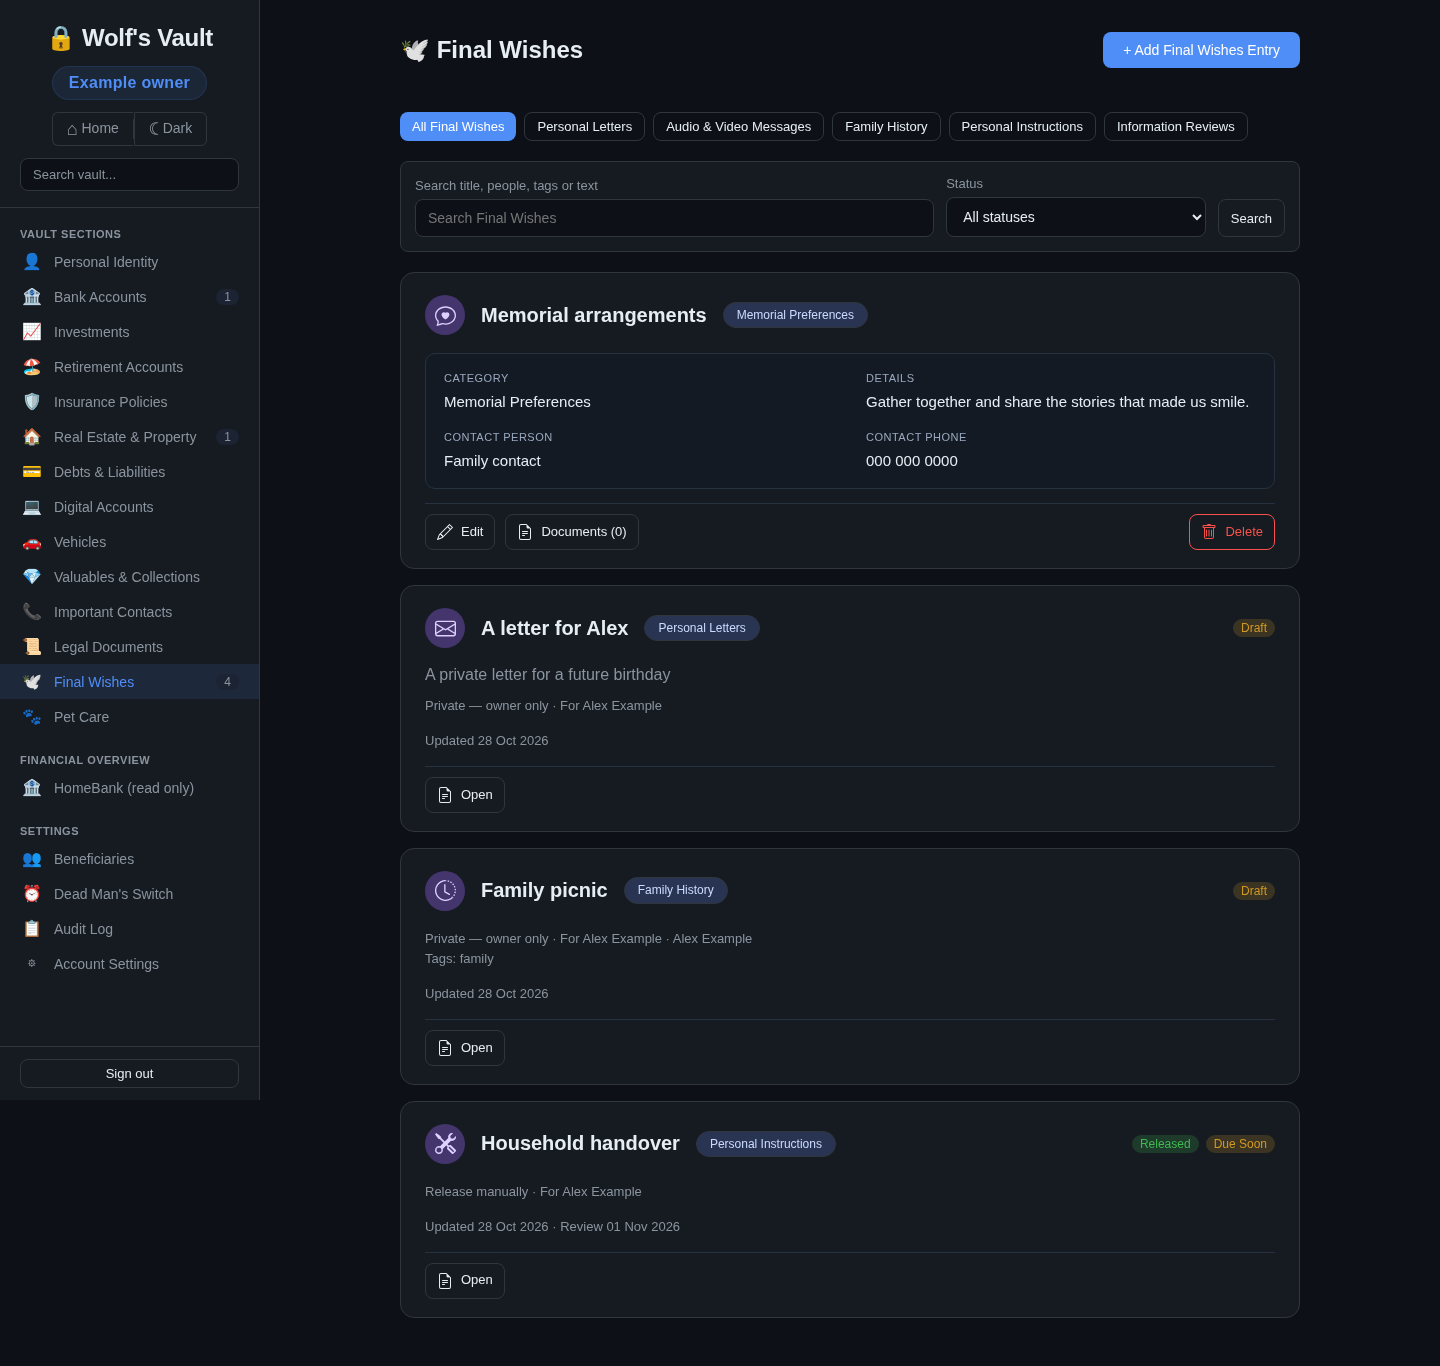
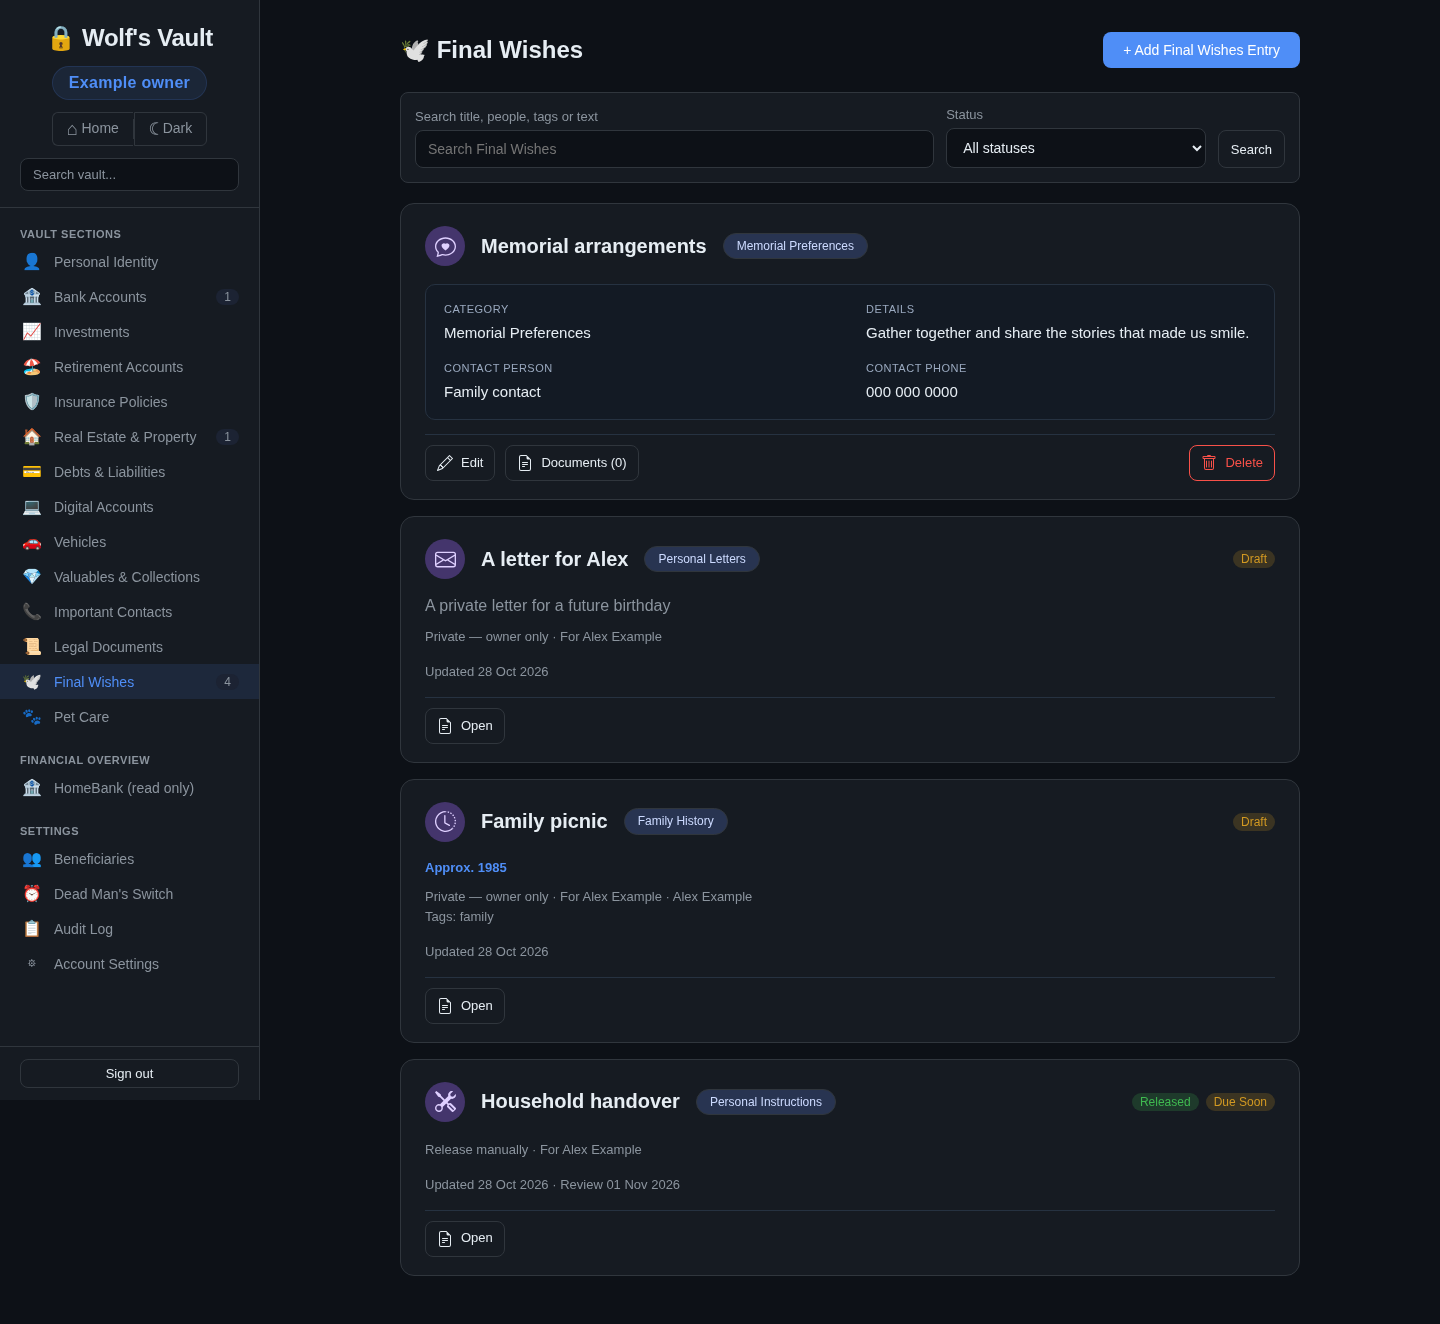
Remove category buttons from the Final Wishes list

diff --git a/public/js/legacy.js b/public/js/legacy.js
@@ -113,7 +113,7 @@ const Legacy = (() => {
 
   async function mountOwner(root,finalEntries=[],options={}) {
     if(!root)return;
-    let items=[],beneficiaries=[],vaultEntries=[],group='all',filter={q:'',status:'',from:'',to:''},detail=null,widget=null,sequence=0;
+    let items=[],beneficiaries=[],vaultEntries=[],filter={q:'',status:''},detail=null,widget=null,sequence=0;
     let uploadConfig={max_file_bytes:25*1024*1024,accepted:mediaAccept};
     const alive=()=>root.isConnected;
     const message=(text,error=false)=>{if(!alive())return;const target=root.querySelector('[data-legacy-feedback]');if(target){target.textContent=text;target.hidden=false;target.className='alert alert-'+(error?'error':'success');}else (error?showError:showSuccess)(text);};
@@ -129,14 +129,14 @@ const Legacy = (() => {
       for(let page=2;page<=Number(first.pages || 1);page++)entries.push(...arrayResult(await API.request('GET','/vault/entries?limit=100&page='+page)));
       return entries;
     }
-    function card(item,timeline=false) {
+    function card(item,timeline=item.type==='family_history') {
       const metadata=item.metadata || {};
       const recipients=(item.beneficiaries || []).map(recipient=>recipient.name).filter(Boolean);
       const timelineDate=timeline?`<p class="legacy-timeline-date">${escape(metadata.event_date?`${metadata.date_precision==='approximate'?'Approx. ':''}${metadata.event_date}`:'Unknown date')}</p>`:'';
       return RecordCards.render({
         title:item.title,section:'final_wishes',category:types[item.type] || item.type,iconName:recordIcons[item.type] || 'file-earmark-text',
         badges:`<div class="legacy-badges">${badge(item.status)}${item.review_enabled?badge(item.review_state):''}</div>`,
-        className:`legacy-item ${timeline?'legacy-timeline-item':''}`,
+        className:'legacy-item',
         body:`<div class="record-card-body">${timelineDate}${metadata.final_wishes?.category?`<p class="legacy-help">${escape(metadata.final_wishes.category)}</p>`:''}${item.description?`<p class="legacy-description">${escape(item.description)}</p>`:''}<p class="legacy-help">${escape(policies[item.release_policy] || item.release_policy)} · ${recipients.length?`For ${escape(recipients.join(', '))}`:`${(item.beneficiary_ids || item.beneficiaries || []).length} recipient(s)`}${metadata.people?.length?` · ${escape(textList(metadata.people))}`:''}${metadata.tags?.length?`<br>Tags: ${escape(textList(metadata.tags))}`:''}</p><p class="legacy-help">Updated ${escape(date(item.updated_at))}${item.next_review_at?` · Review ${escape(date(item.next_review_at))}`:''}</p></div>`,
         footer:RecordCards.footer({primary:RecordCards.action({label:'Open',iconName:'file-earmark-text',attributes:`data-legacy-action="open" data-item-id="${escape(item.id)}"`})})
       });
@@ -144,11 +144,18 @@ const Legacy = (() => {
     function drawList() {
       if(!alive())return;
       detail=null;
-      const reviews=group==='reviews';
-      const visible=reviews?items.filter(item=>item.review_enabled || item.type==='review'):group==='all'?items:items.filter(item=>item.type===group);
-      const arrangements=group==='all' && !filter.status ? finalEntries.filter(entry=>!filter.q || [entry.title,entry.notes,...Object.values(entry.fields || {})].join(' ').toLowerCase().includes(filter.q.toLowerCase())) : [];
-      root.innerHTML=`${feedback}<div class="legacy-tabs" role="group" aria-label="Final Wishes entry groups">${[['all','All Final Wishes'],...Object.entries(types).filter(([key])=>key!=='review'),['reviews','Information Reviews']].map(([key,label])=>`<button type="button" class="btn btn-${group===key?'primary':'outline'} btn-sm" data-legacy-group="${key}" aria-pressed="${group===key}">${label}</button>`).join('')}</div><form class="legacy-filters" id="legacy-filter-form"><div class="form-group"><label for="legacy-search">Search title, people, tags or text</label><input id="legacy-search" name="q" value="${escape(filter.q)}" type="search" placeholder="Search Final Wishes"></div><div class="form-group"><label for="legacy-filter-status">Status</label><select id="legacy-filter-status" name="status"><option value="">All statuses</option>${selectOptions({draft:'Draft',ready:'Ready',released:'Released',archived:'Archived'},filter.status)}</select></div>${group==='family_history'?`<div class="form-group"><label for="legacy-from">From date</label><input id="legacy-from" name="from" type="date" value="${escape(filter.from)}"></div><div class="form-group"><label for="legacy-to">To date</label><input id="legacy-to" name="to" type="date" value="${escape(filter.to)}"></div>`:''}<button type="submit" class="btn btn-outline btn-sm">Search</button></form>${reviews?'<p class="legacy-help">Reviewing information records its accuracy. Use the Dead Man’s Switch section for your separate check-in.</p>':''}<div class="legacy-list ${group==='family_history'?'legacy-timeline':''}">${arrangements.map(entry=>RecordCards.entry(entry,{section:'final_wishes',documentCount:options.documentCounts?.[entry.id] || 0})).join('')}${visible.length?(group==='family_history'?[...visible].sort((a,b)=>String(a.metadata?.event_date || '9999').localeCompare(String(b.metadata?.event_date || '9999'))):visible).map(item=>card(item,group==='family_history')).join(''):arrangements.length?'':`<div class="empty-state"><h3>No ${escape(group==='all'?'Final Wishes entries':reviews?'scheduled reviews':types[group].toLowerCase())} yet</h3><p>${filter.q || filter.status?'Try changing your search filters.':'Use Add Final Wishes Entry to prepare wishes and content for your recipients.'}</p></div>`}</div>`;
-      root.querySelectorAll('[data-legacy-group]').forEach(control=>control.onclick=()=>{group=control.dataset.legacyGroup;drawList();});
+      const arrangements=!filter.status ? finalEntries.filter(entry=>!filter.q || [entry.title,entry.notes,...Object.values(entry.fields || {})].join(' ').toLowerCase().includes(filter.q.toLowerCase())) : [];
+      root.innerHTML=`${feedback}
+        <form class="legacy-filters" id="legacy-filter-form">
+          <div class="form-group"><label for="legacy-search">Search title, people, tags or text</label><input id="legacy-search" name="q" value="${escape(filter.q)}" type="search" placeholder="Search Final Wishes"></div>
+          <div class="form-group"><label for="legacy-filter-status">Status</label><select id="legacy-filter-status" name="status"><option value="">All statuses</option>${selectOptions({draft:'Draft',ready:'Ready',released:'Released',archived:'Archived'},filter.status)}</select></div>
+          <button type="submit" class="btn btn-outline btn-sm">Search</button>
+        </form>
+        <div class="legacy-list">
+          ${arrangements.map(entry=>RecordCards.entry(entry,{section:'final_wishes',documentCount:options.documentCounts?.[entry.id] || 0})).join('')}
+          ${items.map(item=>card(item)).join('')}
+          ${!items.length && !arrangements.length?`<div class="empty-state"><h3>No Final Wishes entries yet</h3><p>${filter.q || filter.status?'Try changing your search filters.':'Use Add Final Wishes Entry to prepare wishes and content for your recipients.'}</p></div>`:''}
+        </div>`;
       root.querySelector('#legacy-filter-form').onsubmit=async event=>{event.preventDefault();filter=Object.fromEntries(new FormData(event.target));await load();};
       bindActions();
       options.onRender?.();
@@ -295,7 +302,6 @@ const Legacy = (() => {
       root.querySelectorAll('[data-legacy-action]').forEach(control=>control.onclick=async()=>{
         const action=control.dataset.legacyAction;
         try{
-          if(action==='new'){window.location.hash='add/final_wishes?type='+urlId(Object.hasOwn(types,group)?group:'instruction');return;}
           if(action==='back'){if(window.location.hash!=='#section/final_wishes'){window.location.hash='section/final_wishes';return;}return load();}
           if(action==='reload'){if(await load() && options.entryForm)return showEditor(newWish());return;}
           if(action==='open')return showDetail(control.dataset.itemId || detail.id);

diff --git a/tests/legacy-ui.test.js b/tests/legacy-ui.test.js
@@ -21,8 +21,10 @@ const fixtureEntries=[{id:11,title:'Memorial arrangements',section:'final_wishes
 const common={body_markdown:'A personal message',introduction:'',description:'',release_policy:'owner_only',status:'draft',beneficiary_ids:[1],metadata:{},links:[],beneficiaries:[],attachments:[],versions:[],reviews:[],release_events:[],review_enabled:false,revision:1,created_at:'2026-10-20T10:00:00Z',updated_at:'2026-10-28T10:00:00Z'};
 const fixtureItems=[
 {...structuredClone(common),id:'letter-1',title:'A letter for Alex',type:'letter',description:'A private letter for a future birthday'},
+{...structuredClone(common),id:'recording-2',title:'A recorded family story',type:'recording'},
 {...structuredClone(common),id:'memory-1',title:'Family picnic',type:'family_history',metadata:{event_date:'1985',date_precision:'approximate',people:['Alex Example'],tags:['family'],place:'Example park'}},
 {...structuredClone(common),id:'memory-2',title:'An undated photograph',type:'family_history',metadata:{date_precision:'unknown',people:['Jamie Example']}},
+{...structuredClone(common),id:'review-1',title:'Review estate information',type:'review',review_enabled:true},
 {...structuredClone(common),id:'instructions-1',title:'Household handover',type:'instruction',body_markdown:'Check the garden each week.',status:'released',release_policy:'manual_release',review_enabled:true,review_interval_months:12,next_review_at:'2026-11-01T00:00:00Z',review_state:'due_soon',metadata:{category:'maintenance',priority:'normal',checklist:[{id:'water-garden',text:'Water the garden'},{id:'call-service',text:'Contact the maintenance service'}]},links:[{entry_id:12}],attachments:[{id:'recording-1',display_name:'Garden instructions.wav',mime_type:'audio/wav',size_bytes:128,sha256:'a'.repeat(64)}],beneficiaries:[{beneficiary_id:1,name:'Alex Example',released_at:'2026-10-28T10:00:00Z',revoked_at:null,release_scope:'manual_release'}]}
 ];
 const fixtureCopy=value=>structuredClone(value);
@@ -85,16 +87,18 @@ const browserChecks = `
  async function until(predicate,label){for(let n=0;n<120;n++){if(predicate())return;await flush();}throw new Error('Timed out: '+label);}
  const workspace=()=>document.getElementById('legacy-workspace');
  const action=name=>workspace()?.querySelector('[data-legacy-action="'+name+'"]');
- await until(()=>workspace()?.querySelector('.legacy-tabs'),'owner content groups');
- check(document.querySelectorAll('.legacy-tabs button').length===6,'extends Final Wishes with five groups and All content');
+ await until(()=>workspace()?.querySelector('.legacy-list'),'owner content list');
+ check(!workspace().querySelector('.legacy-tabs,[data-legacy-group]'),'Final Wishes list has no separate content category buttons');
+ check(fixtureItems.every(item=>workspace().querySelector('.legacy-list').textContent.includes(item.title)),'one Final Wishes list displays letters, recordings, family history, instructions and reviews');
  check(document.querySelector('.final-wishes-entries').textContent.includes('Existing final wish retained'),'preserves existing Final Wishes fields and arrangements');
  check(!Array.from(document.querySelectorAll('.sidebar .nav-item')).some(item=>item.textContent.includes('Personal Legacy')),'adds no top-level legacy section');
- check(!action('new')&&!workspace().querySelector('.legacy-heading'),'Final Wishes list has one page-level authoring entry point');
+ check(document.querySelectorAll('.page-header [data-nav="add/final_wishes"]').length===1&&!action('new')&&!workspace().querySelector('.legacy-heading'),'Final Wishes list has one page-level Add Final Wishes Entry action');
  document.querySelector('.page-header [data-nav="add/final_wishes"]').click();
  await until(()=>document.getElementById('legacy-editor'),'unified Final Wishes editor');
  let form=document.getElementById('legacy-editor');
  check(location.hash==='#add/final_wishes'&&document.querySelector('.page-header h1').textContent==='Add Final Wishes Entry','page-level action opens the unified Final Wishes form');
  check(workspace().contains(form)&&!document.getElementById('entry-form')&&form.elements.type.value==='instruction','new wishes use one protected editor with personal instructions selected');
+ check(['letter','recording','family_history','instruction','review'].every(type=>Array.from(form.querySelector('#legacy-type').options).some(option=>option.value===type)),'the unified entry editor retains every content type');
  check(form.elements.release_policy.value==='owner_only'&&form.elements.status.value==='draft','new content defaults to private draft');
  form.elements.wish_category.value='Memorial Preferences';
  form.elements.wish_details.value='Share family stories at the memorial.';
@@ -142,10 +146,12 @@ const browserChecks = `
  check(fixtureCalls.some(call=>call.route.endsWith('/review')&&call.body.action==='updated'),'Reviewed and Updated saves the revision and review history');
  action('review-no-change').click();await flush();
  check(fixtureCalls.some(call=>call.route.endsWith('/review')&&call.body.action==='no_change')&&!fixtureCalls.some(call=>/deadswitch|checkin/.test(call.route)),'information reviews remain separate from Dead Man’s Switch check-in');
- action('back').click();await until(()=>workspace().querySelector('[data-legacy-group="family_history"]'),'content list');workspace().querySelector('[data-legacy-group="family_history"]').click();
- check(workspace().querySelector('.legacy-timeline')&&workspace().textContent.includes('Approx. 1985')&&workspace().textContent.includes('Unknown date'),'family timeline preserves approximate and unknown dates');
- workspace().querySelector('#legacy-search').value='family';workspace().querySelector('#legacy-from').value='1980-01-01';workspace().querySelector('#legacy-to').value='1990-12-31';workspace().querySelector('#legacy-filter-form').dispatchEvent(new Event('submit',{bubbles:true,cancelable:true}));await flush();
- check(fixtureCalls.some(call=>call.route.includes('q=family')&&call.route.includes('from=1980-01-01')&&call.route.includes('to=1990-12-31')),'family search sends people or tag text and date filters');
+ action('back').click();await until(()=>workspace().querySelector('.legacy-list'),'content list');
+ const familyDates=Array.from(workspace().querySelectorAll('.legacy-timeline-date')).map(element=>element.textContent);
+ check(familyDates.includes('Approx. 1985')&&familyDates.includes('Unknown date'),'family history cards preserve approximate and unknown dates in the shared list');
+ check(!workspace().querySelector('#legacy-from,#legacy-to,.legacy-timeline'),'the shared list has no separate family timeline or date range controls');
+ workspace().querySelector('#legacy-search').value='family';workspace().querySelector('#legacy-filter-form').dispatchEvent(new Event('submit',{bubbles:true,cancelable:true}));await flush();
+ check(fixtureCalls.some(call=>call.route.includes('q=family')),'shared Final Wishes search sends people or tag text');
  window.location.hash='beneficiaries';await until(()=>document.querySelector('[data-legacy-beneficiary]'),'existing beneficiaries view');
  document.querySelector('[data-legacy-beneficiary="1"]').open=true;await until(()=>document.querySelector('[data-legacy-recipient-items]').textContent.includes('A letter for Alex'),'recipient content summary');
  check(document.querySelector('[data-legacy-recipient-items]').textContent.includes('private')&&document.querySelector('[data-legacy-recipient-items]').textContent.includes('Household handover'),'beneficiary record shows its private and released content alongside existing access controls');

diff --git a/tests/helpers/mobile-browser-fixture.js b/tests/helpers/mobile-browser-fixture.js
@@ -172,7 +172,7 @@ async function runMobileWorkflow() {
   entryForm.dispatchEvent(new Event('submit', { bubbles: true, cancelable: true }));
   await until(() => document.querySelector('[data-edit="13"]'), 'saved bank account');
   check(fixtureCalls.some(call => call.method === 'updateEntry' && call.body.title === 'Updated example savings account'), 'mobile entry form saves through the existing API');
-  await route('section/final_wishes', '.legacy-tabs');
+  await route('section/final_wishes', '.legacy-list');
   check(!document.querySelector('#legacy-workspace [data-legacy-action="new"]'), 'Final Wishes provides a single page-level Add Final Wishes Entry action');
   document.querySelector('.page-header [data-nav="add/final_wishes"]').click();
   await until(() => location.hash === '#add/final_wishes' && document.querySelector('#legacy-editor'), 'unified Final Wishes entry form');

diff --git a/scripts/test-mobile-browsers.js b/scripts/test-mobile-browsers.js
@@ -24,7 +24,7 @@ const screens = [
   ['login', '#login', '#login-form'],
   ['dashboard', '#vault', '.vault-grid'],
   ['bank-accounts', '#section/bank_accounts', '[data-edit="13"]'],
-  ['final-wishes', '#section/final_wishes', '.legacy-tabs'],
+  ['final-wishes', '#section/final_wishes', '.legacy-list'],
   ['letter-editor', '#add/final_wishes?type=letter', '#legacy-editor'],
   ['beneficiaries', '#beneficiaries', '#add-ben-btn'],
   ['homebank', '#homebank', '.hb-account'],

diff --git a/docs/final-wishes-entry-flow.md b/docs/final-wishes-entry-flow.md
@@ -7,11 +7,13 @@ the wish title, category, details, contact person/phone and notes with recipient
 content type, written content, protected attachments, release policy and optional
 information reviews. The former outer Add Content heading/action is removed.
 
-Existing arrangements and protected entries appear in the same list. The type,
-status and text controls filter that list; ordinary arrangements appear in All
-Final Wishes and text search, while lifecycle statuses apply to protected
-entries. Existing Edit/Documents/Delete handlers on arrangements remain intact.
-Dashboard and navigation counts include active protected wishes.
+Existing arrangements and protected entries appear in the same list. The page
+has no All Final Wishes, Personal Letters, Audio & Video, Family History,
+Personal Instructions or Information Reviews category buttons. Choose content
+types inside Add Final Wishes Entry instead. Existing text/status search and
+Edit/Documents/Delete handlers remain available; lifecycle status filters apply
+to protected entries. Family dates remain on their cards. Dashboard and
+navigation counts include active protected wishes.
 
 ## Privacy and compatibility
 
@@ -70,3 +72,18 @@ database operation or migration was needed. Refresh existing browsers to load
 the combined form. The previous public source archive and private verification
 record are retained at `/home/wolf/backups/wolfs-legacy/pre-final-wishes-entry-20261031T130016Z/`. This is a source-only rollback archive,
 not a database backup. Later documentation commits do not change runtime assets.
+
+### Category button removal
+
+Verified on **31 October 2026 at 15:11:21 SAST**: all six category
+buttons are removed from the list. The Add Final Wishes Entry form retains
+Personal Letters, Audio & Video Messages, Family History, Personal Instructions
+and Information Reviews. Existing search, status, recipient, file and release
+controls remain available.
+
+Firefox desktop/phone/tablet interaction tests pass. Chromium covers 30 screen
+captures at 390/820/1440px plus 60 workflow checks at each mobile/tablet width;
+WebKitGTK covers ten screens plus 59 workflow checks at 390px. Updated list
+screenshots show the category-free page. Live health and script-byte checks
+pass through loopback and the hostname, with the service still active and no
+restart. Private rollback source and verification: `/home/wolf/backups/wolfs-legacy/pre-final-wishes-buttons-20261031T131121Z/`.
